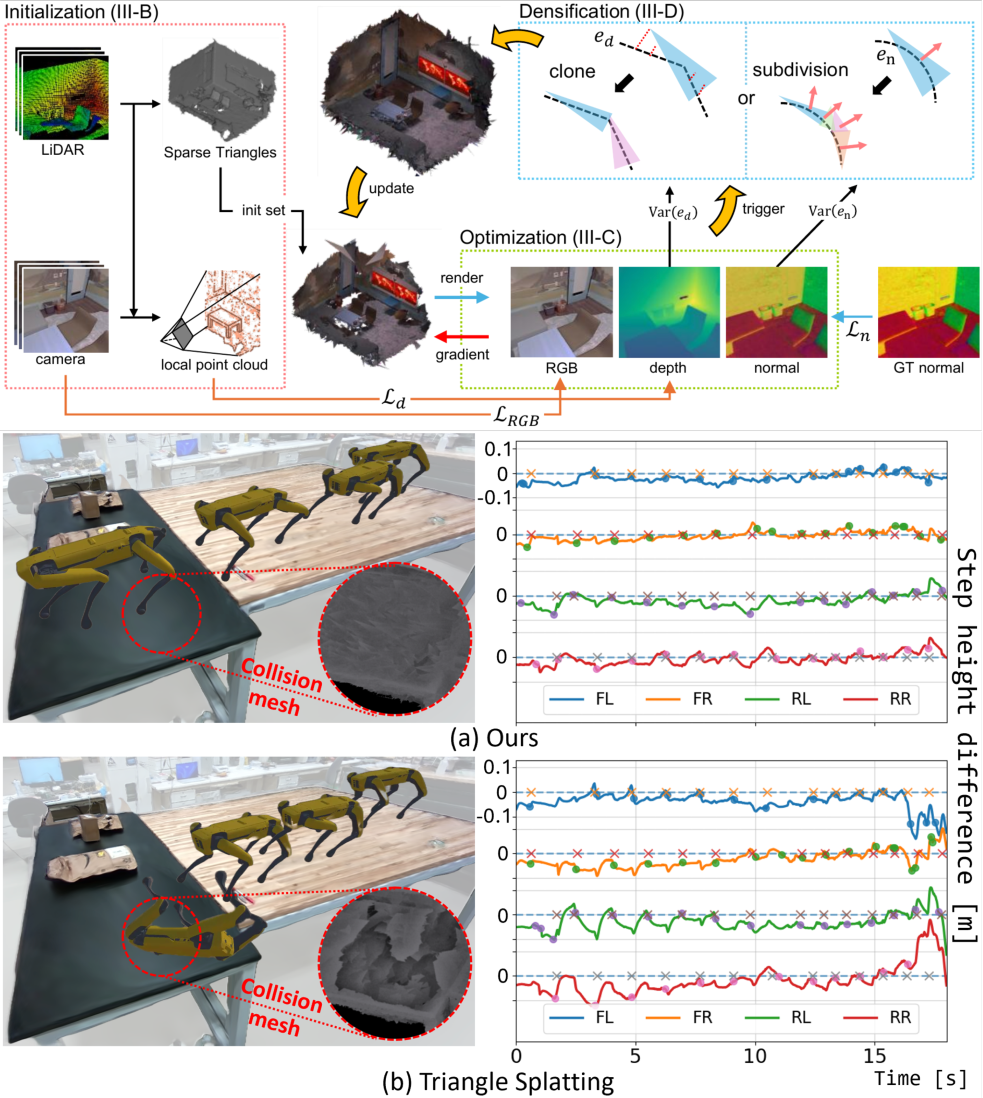
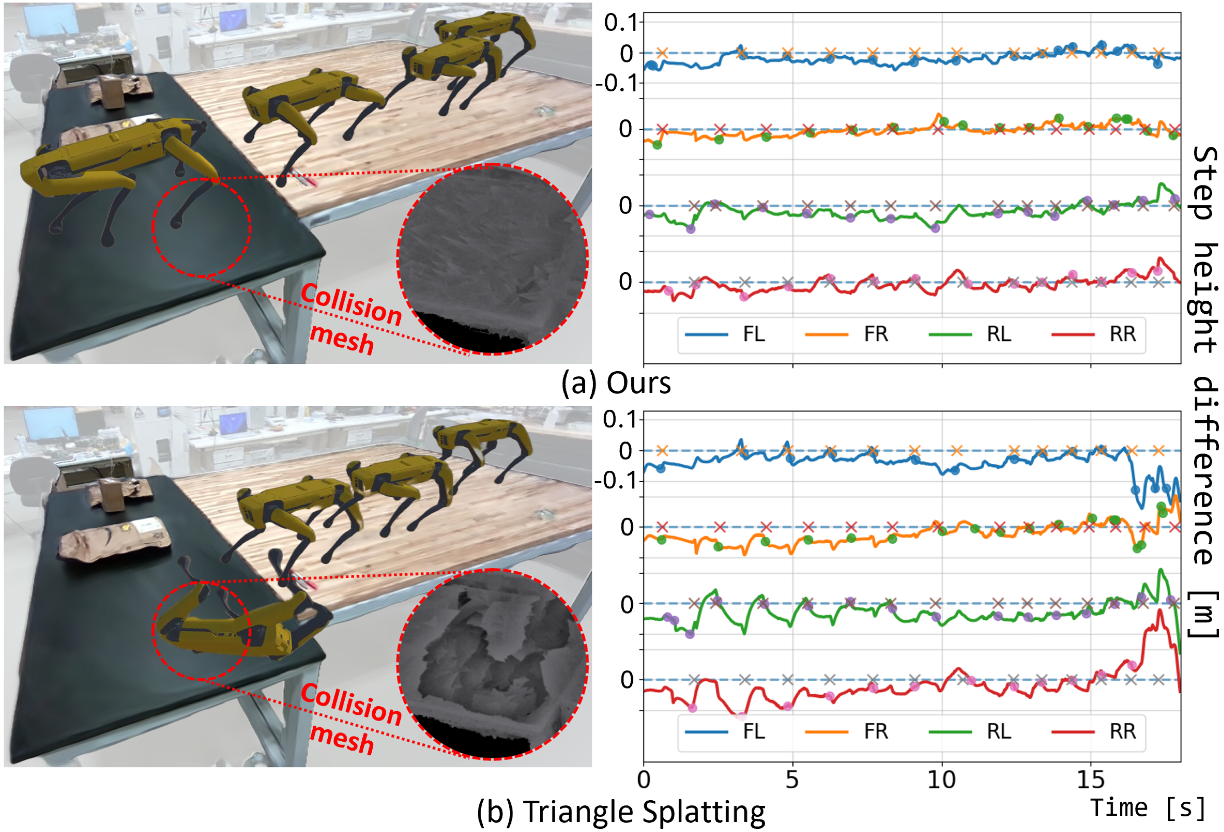
minor updates

diff --git a/index.html b/index.html
@@ -277,15 +277,14 @@
 
         <div class="list-item conference highlight1" data-category="conference">
           <a href="https://kidpaul94.github.io/portfolio/TriangleSplatting/" class="thumbnail">
-            <img src="images/iros2026/Picture1.png" alt="" />
+            <img src="images/iros2026/lidar_ts.png" alt="" />
           </a>
           <div class="project-description">
-            <h3><a href="https://kidpaul94.github.io/portfolio/TriangleSplatting/">LiDAR-Integrated Coarse-to-Fine Optimization for Geometrically Consistent Triangle Splatting from Mobile Robots
+            <h3><a href="https://kidpaul94.github.io/portfolio/TriangleSplatting/">LiDAR-Integrated Coarse-to-Fine Optimization for Geometrically Consistent Triangle Splatting from Mobile Robots <font color="49bf9"><i>&#9733; Acceptance rate: 36.0% &#9733;</i></font>
             </a></h3>
             <p>
               <a href="https://bkyoon-research.github.io">Byoungkwon Yoon</a>, <b>Hojun Lee</b>, <a href="https://yuseopsim.github.io">Yuseop Sim</a>, <a href="https://web.ics.purdue.edu/~jun25/members.html">Martin B.G. Jun</a> <br>
                 <i>IEEE/RSJ Conference on Intelligent Robots and Systems (IROS) 2026 - accepted</i><br>
-                <font color="49bf9"><i>&#9733; Acceptance rate: 36.0% &#9733;</i></font><br>
                 <a href="https://purduelamm.github.io/lidar-ts-page/static/pdfs/lidar-triangle-splatting.pdf">
                   <img src="images/icons/pdf.png" alt="Icon" width="14" height=auto> PDF
                 </a>
@@ -405,12 +404,11 @@
             <img src="images/msec2026/framework.png" alt="" />
           </a>
           <div class="project-description">
-            <h3><a href="https://kidpaul94.github.io/portfolio/stamping/">Generative Latent Space Modeling of Stamping Sound for Anomaly Detection and Predictive Maintenance
+            <h3><a href="https://kidpaul94.github.io/portfolio/stamping/">Generative Latent Space Modeling of Stamping Sound for Anomaly Detection and Predictive Maintenance <font color="49bf9"><i>&#9733; 2nd Best Paper Award in MSEC 2026 &#9733;</i></font>
             </a></h3>
             <p>
               <a href="https://yuseopsim.github.io">Yuseop Sim</a>, <a href="https://eunseob.github.io">Eunseob Kim</a>, Junho Sohn, Joe Barr, <b>Hojun Lee</b>, Breadford Beach, <a href="https://web.ics.purdue.edu/~jun25/members.html">Martin B.G. Jun</a>, Ali Shakouri <br>
                 <i>Journal of Manufacturing Science and Engineering</i><br>
-                <font color="49bf9"><i>&#9733; 2nd Best Paper Award in MSEC 2026 &#9733;</i></font><br>
                 <a href="https://asmedigitalcollection.asme.org/manufacturingscience/article/doi/10.1115/1.4072576/1234805">
                   <img src="images/icons/pdf.png" alt="Icon" width="14" height=auto> PDF
                 </a>
@@ -501,12 +499,11 @@
             <img src="images/iros2025/easeir.png" alt="" />
           </a>
           <div class="project-description">
-            <h3><a href="https://kidpaul94.github.io/portfolio/EASEIR/">EASEIR: Efficient and Adaptive Safe-set Estimation via Implicit Representation for High-dimensional Motion Planning
+            <h3><a href="https://kidpaul94.github.io/portfolio/EASEIR/">EASEIR: Efficient and Adaptive Safe-set Estimation via Implicit Representation for High-dimensional Motion Planning <font color="49bf9"><i>&#9733; Acceptance rate: 46.0% &#9733;</i></font>
             </a></h3>
             <p>
               <b>Hojun Lee</b>, <a href="https://yuseopsim.github.io">Yuseop Sim</a>, Changheon Han, <a href="https://www.jiholee.xyz/people">Jiho Lee</a>, <a href=https://www.cs.purdue.edu/homes/ab>Aniket Bera</a>, Changju Kim, <a href="https://web.ics.purdue.edu/~jun25/members.html">Martin B.G. Jun</a> <br>
                 <i>IEEE/RSJ Conference on Intelligent Robots and Systems (IROS) 2025</i><br>
-                <font color="49bf9"><i>&#9733; Acceptance rate: 46.0% &#9733;</i></font><br>
                 <a href="https://ieeexplore.ieee.org/document/11246375">
                   <img src="images/icons/pdf.png" alt="Icon" width="14" height=auto> PDF
                 </a>
@@ -583,12 +580,11 @@
             <img src="images/cirp/framework.png" alt="" />
           </a>
           <div class="project-description">
-            <h3><a href="https://kidpaul94.github.io/portfolio/CIRP/">Overcoming Sparse Run-to-Failure Data Challenges in Manufacturing: A Contrastive Mixer Framework for Remaining Useful Life Prediction
+            <h3><a href="https://kidpaul94.github.io/portfolio/CIRP/">Overcoming Sparse Run-to-Failure Data Challenges in Manufacturing: A Contrastive Mixer Framework for Remaining Useful Life Prediction <font color="49bf9"><i>&#9733; Acceptance rate: 54.0% &#9733;</i></font>
             </a></h3>
             <p>
               <a href="https://eunseob.github.io">Eunseob Kim</a>, <b>Hojun Lee</b>, <a href="https://yuseopsim.github.io">Yuseop Sim</a>, <a href="https://www.jiholee.xyz/people">Jiho Lee</a>, <a href="https://web.ics.purdue.edu/~jun25/members.html">Martin B.G. Jun</a> <br>
                 <i>CIRP Annals - Manufacturing Technology</i><br>
-                <font color="49bf9"><i>&#9733; Acceptance rate: 54.0% &#9733;</i></font><br>
                 <a href="https://www.sciencedirect.com/science/article/pii/S0007850625001301">
                   <img src="images/icons/pdf.png" alt="Icon" width="14" height=auto> PDF
                 </a>
